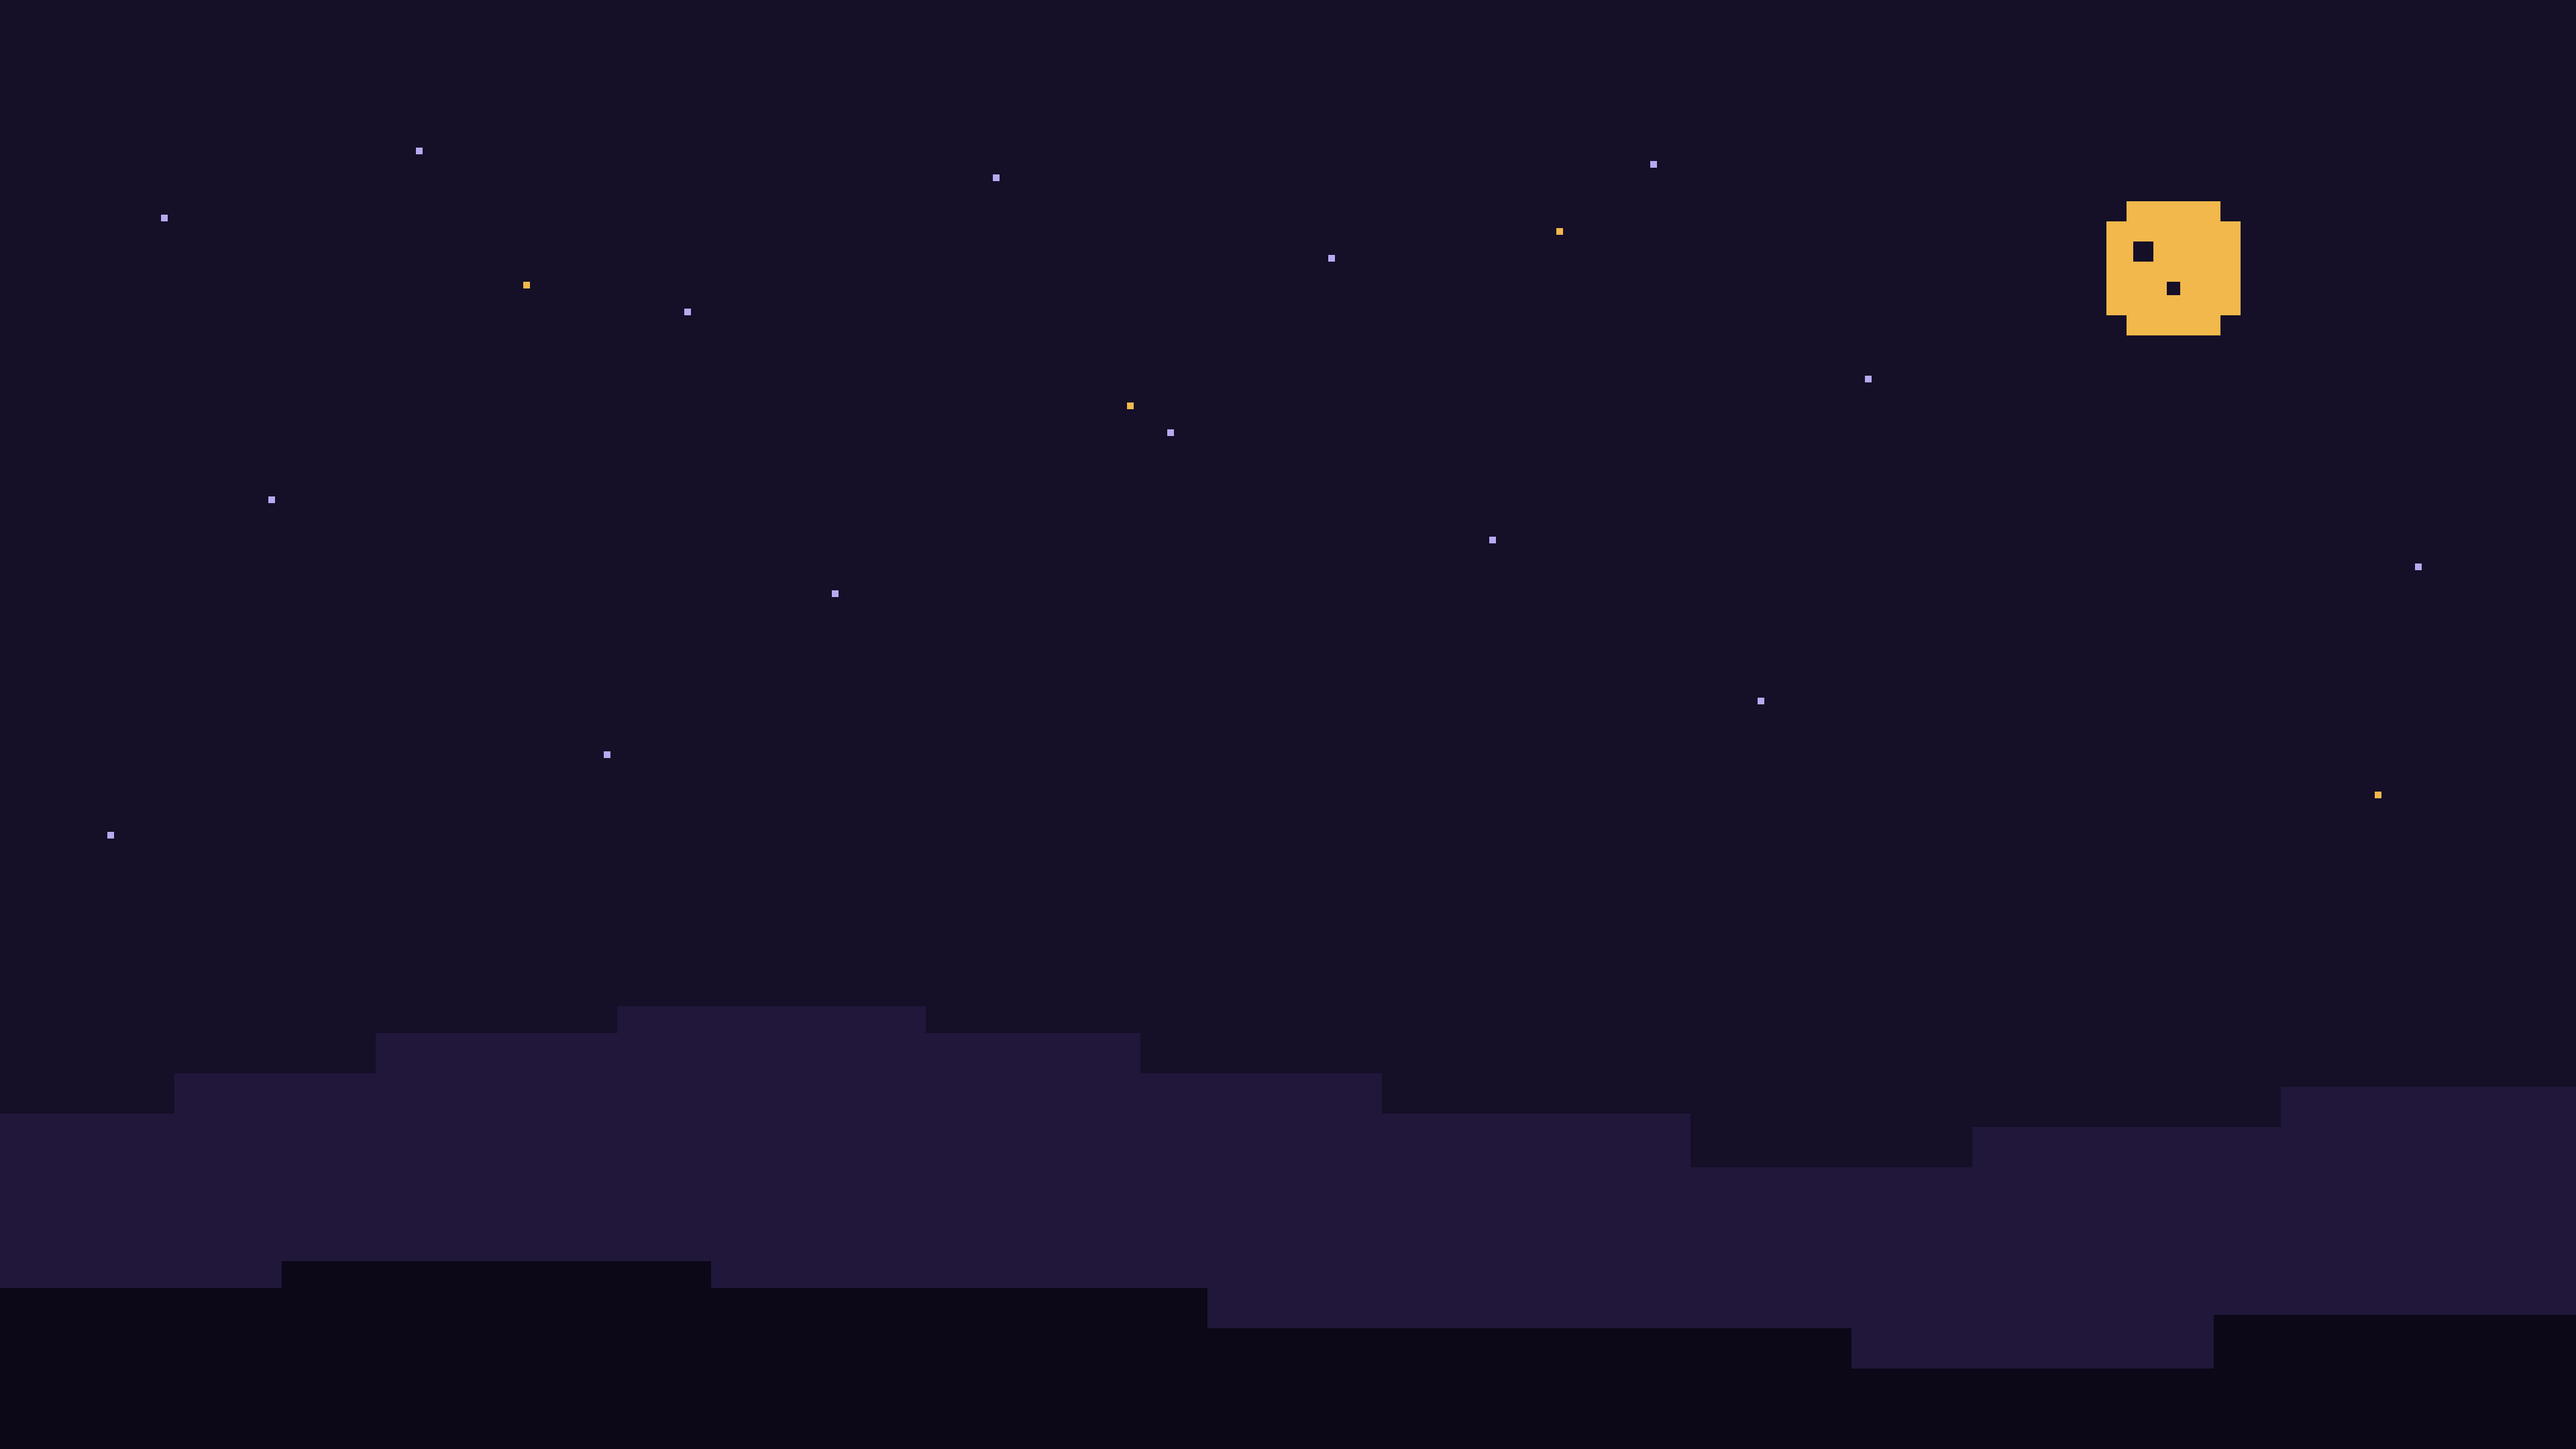
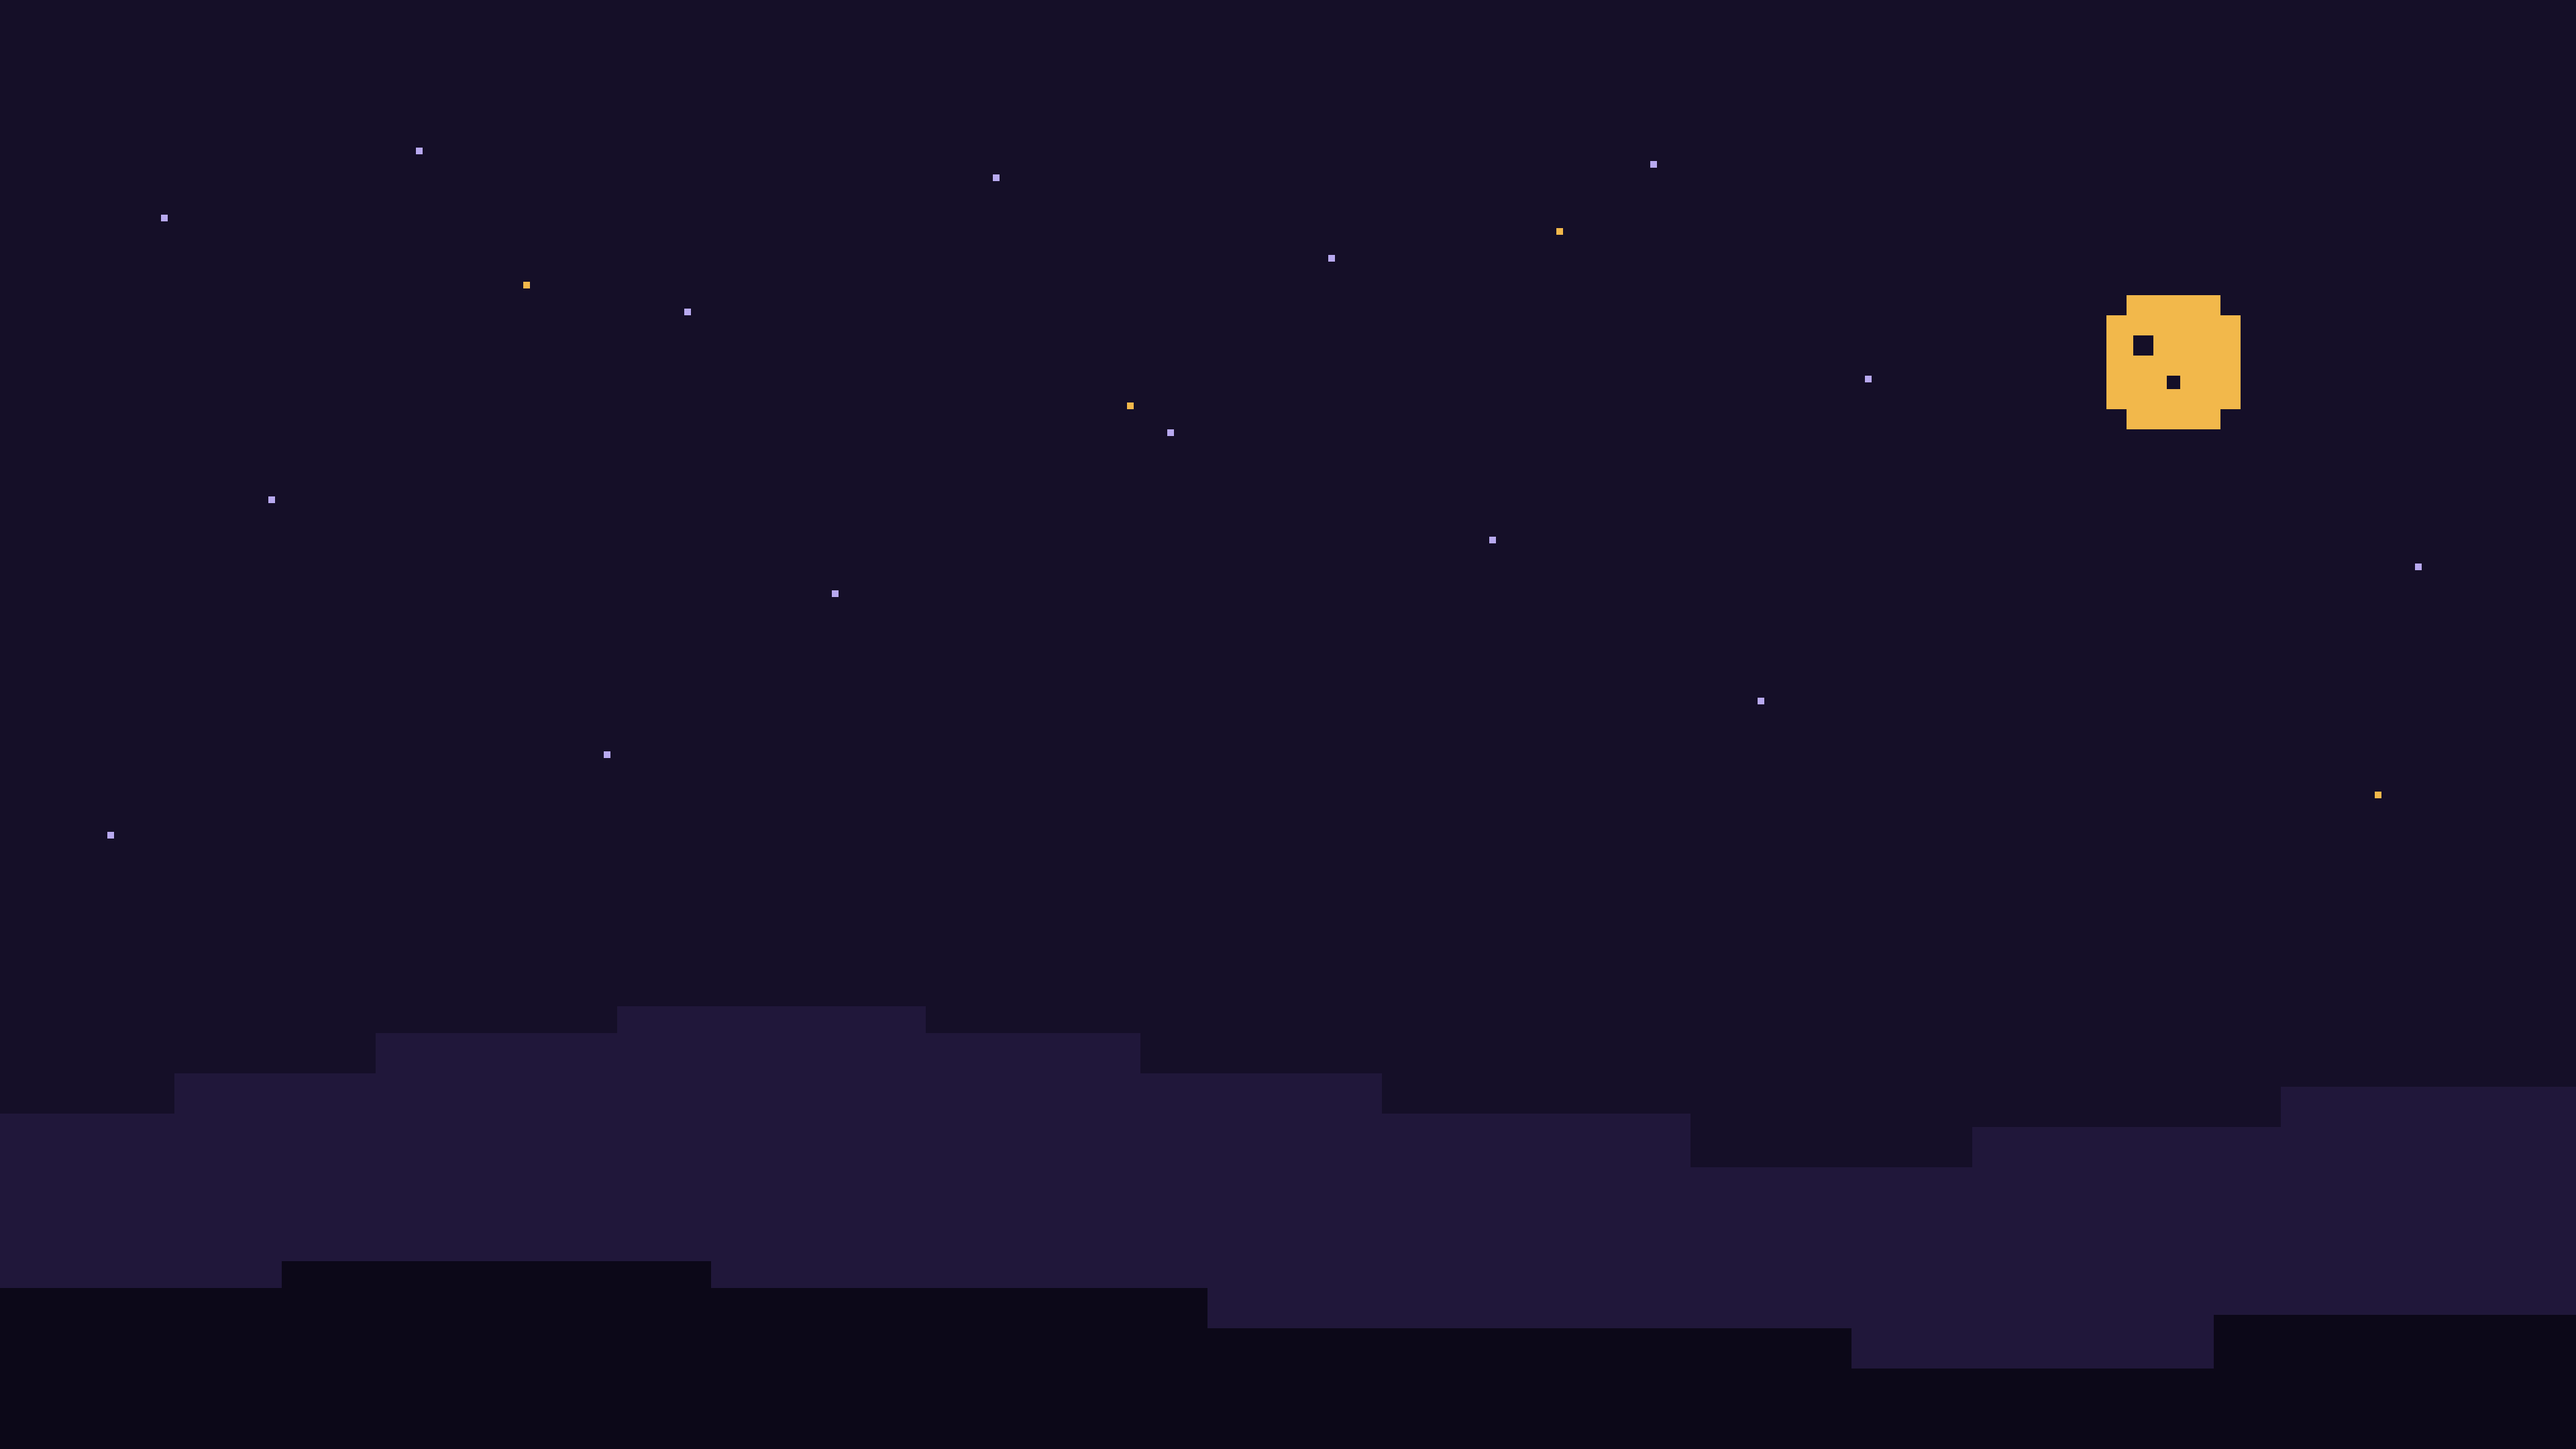
wallpaper: the moon sits low enough to clear the bar on a 21:9 screen
On a 3440 x 1440 screen the fill crop of ink-pixel-dusk cut the sky's top, so the moon sat behind the bar and showed as a solid gold block between the chips, cut off by the windows (seen in the wide dashboard's screenshot). It moves down on the grid (y 30 -> 44): on 3440 x 1440 it is at y 146..325, below the bar; on 1920 x 1080 at y 220..320, still in the upper sky.

Changed region(s): [[0.8125, 0.1241, 0.875, 0.3102]]

diff --git a/build_files/tools/pixel-wallpaper.py b/build_files/tools/pixel-wallpaper.py
@@ -47,8 +47,9 @@ def scene():
         rect(x, y, 1, 1, HIGHLIGHT)
     for x, y in ((78, 42), (168, 60), (232, 34), (354, 118)):
         rect(x, y, 1, 1, GOLD)
-    # the moon: a 20 x 20 disc with stepped corners, two craters
-    mx, my = 314, 30
+    # the moon: a 20 x 20 disc with stepped corners, two craters; low enough that the fill crop of a 21:9 screen (3440 x 1440)
+    # keeps it clear of the bar
+    mx, my = 314, 44
     rect(mx + 3, my, 14, 20, GOLD)
     rect(mx, my + 3, 20, 14, GOLD)
     rect(mx + 4, my + 6, 3, 3, BG)
